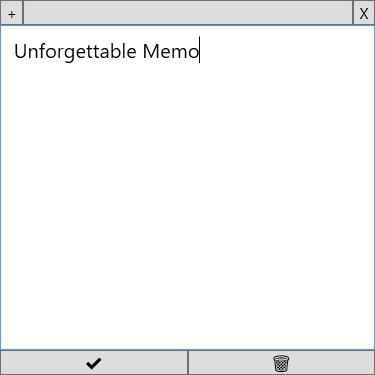
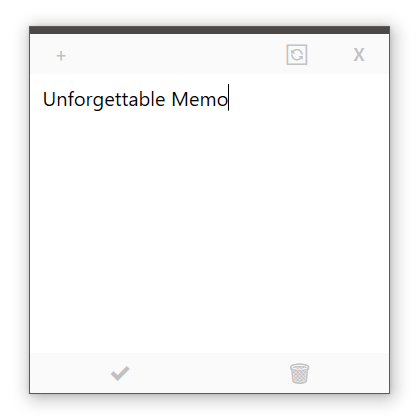
[desktop] Adopt MaterialDesign

Changed region(s): [[0.0, 0.0, 1.0, 1.0], [0.8213, 0.1173, 0.88, 0.1467]]

diff --git a/src/UnforgettableMemo.WinDesktop/MainWindow.xaml b/src/UnforgettableMemo.WinDesktop/MainWindow.xaml
@@ -11,8 +11,19 @@
         Loaded="Window_Loaded"
         Deactivated="Window_Deactivated"
         ResizeMode="CanResize"
+        xmlns:materialDesign="http://materialdesigninxaml.net/winfx/xaml/themes"
+        TextElement.Foreground="{DynamicResource MaterialDesignBody}"
+        TextElement.FontWeight="Regular"
+        TextElement.FontSize="12"
+        TextOptions.TextFormattingMode="Ideal" 
+        TextOptions.TextRenderingMode="Auto"        
+        Background="{DynamicResource MaterialDesignPaper}"
         Title="MainWindow" Height="300" Width="300">
+        <!-- FontFamily="{DynamicResource MaterialDesignFont}" -->
     <Grid>
+        <Grid.Resources>
+            <SolidColorBrush x:Key="PrimaryHueMidBrush" Color="Silver"/>
+        </Grid.Resources>
         <Grid.RowDefinitions>
             <RowDefinition Height="Auto"></RowDefinition>
             <RowDefinition Height="*"></RowDefinition>
@@ -25,13 +36,13 @@
                 <ColumnDefinition Width="Auto"></ColumnDefinition>
                 <ColumnDefinition Width="Auto"></ColumnDefinition>
             </Grid.ColumnDefinitions>
-            <Button Grid.Column="0" Name="btnAdd" xml:space="preserve" Click="btnAdd_Click"> + </Button>
-            <Button Grid.Column="1" Name="topBar" PreviewMouseLeftButtonDown="topBar_PreviewMouseLeftButtonDown"></Button>
-            <Button Grid.Column="2" Name="btnRefresh" xml:space="preserve" Click="btnRefresh_Click">🔄</Button>
-            <Button Grid.Column="3" Name="btnExit" xml:space="preserve" Click="btnExit_Click"> X </Button>
+            <Button Grid.Column="0" Name="btnAdd" Style="{DynamicResource MaterialDesignFlatButton}" xml:space="preserve" Click="btnAdd_Click"> + </Button>
+            <TextBlock Grid.Column="1" Name="topBar" PreviewMouseLeftButtonDown="topBar_PreviewMouseLeftButtonDown"></TextBlock>
+            <Button Grid.Column="2" Name="btnRefresh" Style="{DynamicResource MaterialDesignFlatButton}" xml:space="preserve" Click="btnRefresh_Click">🔄</Button>
+            <Button Grid.Column="3" Name="btnExit" Style="{DynamicResource MaterialDesignFlatButton}" xml:space="preserve" Click="btnExit_Click"> X </Button>
         </Grid>
         <Grid Grid.Row="1">
-            <TextBox Name="txtContent" AcceptsReturn="True" Padding="8" FontSize="16" TextWrapping="Wrap" VerticalScrollBarVisibility="Auto" Text="{Binding Path=DisplayingMemo.Content, Mode=TwoWay, UpdateSourceTrigger=Explicit}" TextChanged="txtContent_TextChanged">
+            <TextBox Name="txtContent" Style="{DynamicResource MaterialDesignOutlinedTextBox}" BorderThickness="0" AcceptsReturn="True" Padding="8" FontSize="16" TextWrapping="Wrap" VerticalScrollBarVisibility="Auto" Text="{Binding Path=DisplayingMemo.Content, Mode=TwoWay, UpdateSourceTrigger=Explicit}" TextChanged="txtContent_TextChanged">
                 
             </TextBox>
         </Grid>
@@ -40,8 +51,8 @@
                 <ColumnDefinition Width="*"></ColumnDefinition>
                 <ColumnDefinition Width="*"></ColumnDefinition>
             </Grid.ColumnDefinitions>
-            <Button Grid.Column="0" Name="btnReview" Click="btnReview_Click">✔</Button>
-            <Button Grid.Column="1" Name="btnDelete" Click="btnDelete_Click">🗑</Button>
+            <Button Grid.Column="0" Name="btnReview" Style="{DynamicResource MaterialDesignFlatButton}" Click="btnReview_Click">✔</Button>
+            <Button Grid.Column="1" Name="btnDelete" Style="{DynamicResource MaterialDesignFlatButton}" Click="btnDelete_Click">🗑</Button>
         </Grid>
     </Grid>
 </Window>

diff --git a/src/UnforgettableMemo.WinDesktop/App.xaml b/src/UnforgettableMemo.WinDesktop/App.xaml
@@ -2,8 +2,14 @@
              xmlns="http://schemas.microsoft.com/winfx/2006/xaml/presentation"
              xmlns:x="http://schemas.microsoft.com/winfx/2006/xaml"
              xmlns:local="clr-namespace:UnforgettableMemo.WinDesktop"
+             xmlns:materialDesign="http://materialdesigninxaml.net/winfx/xaml/themes"
              StartupUri="MainWindow.xaml">
     <Application.Resources>
-         
+        <ResourceDictionary>
+            <ResourceDictionary.MergedDictionaries>
+                <materialDesign:BundledTheme BaseTheme="Light" PrimaryColor="DeepPurple" SecondaryColor="Lime" />
+                <ResourceDictionary Source="pack://application:,,,/MaterialDesignThemes.Wpf;component/Themes/MaterialDesignTheme.Defaults.xaml" />
+            </ResourceDictionary.MergedDictionaries>
+        </ResourceDictionary>
     </Application.Resources>
 </Application>
